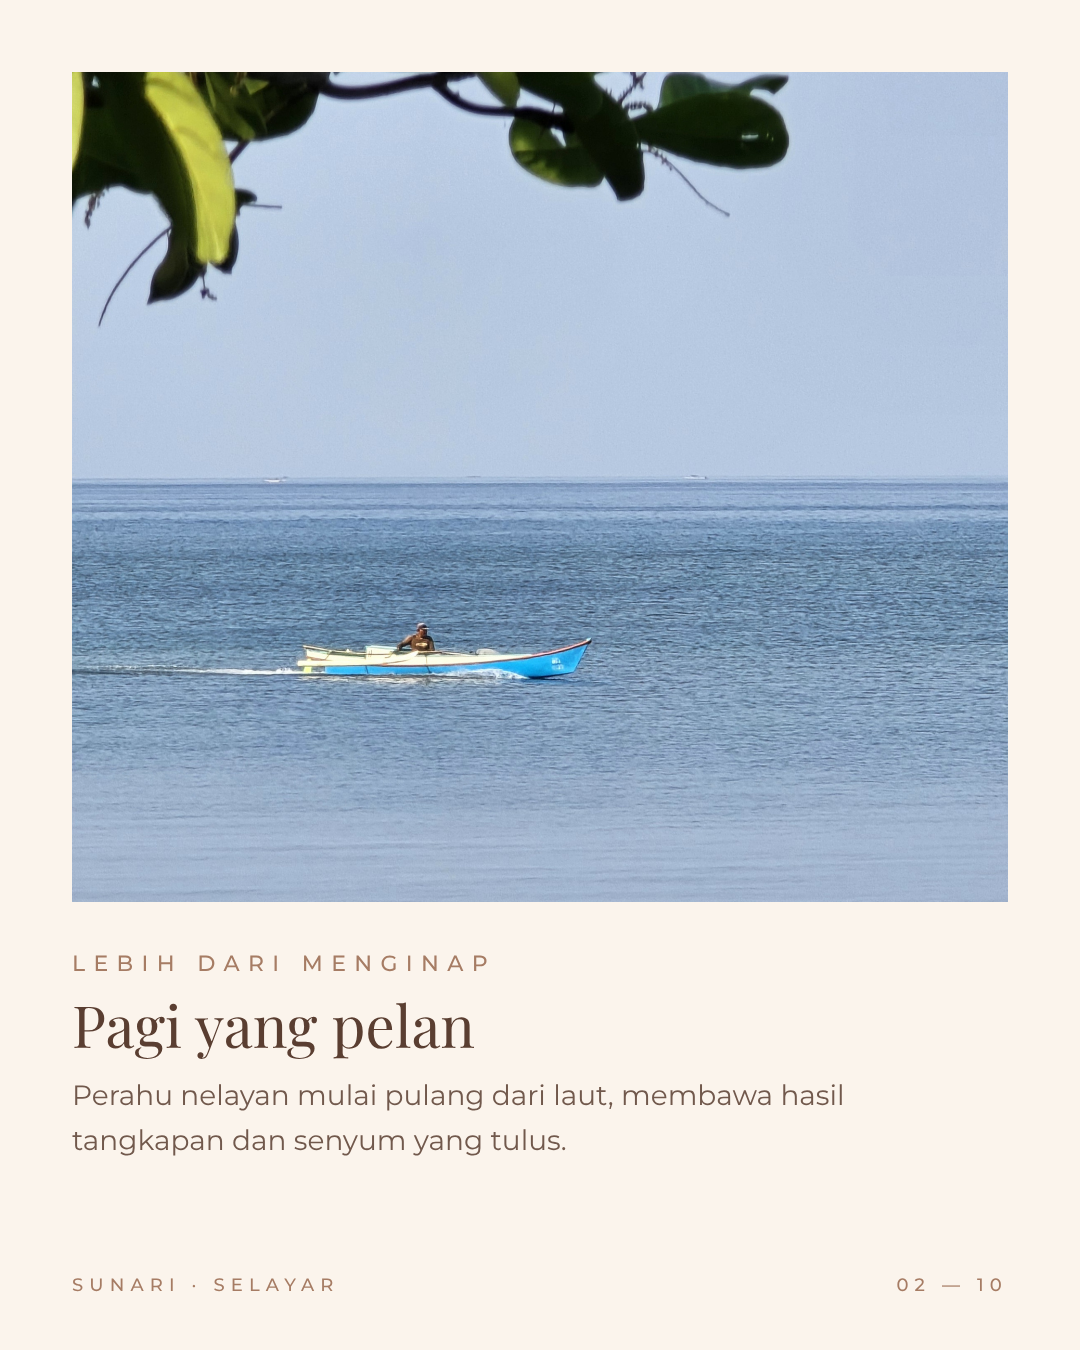
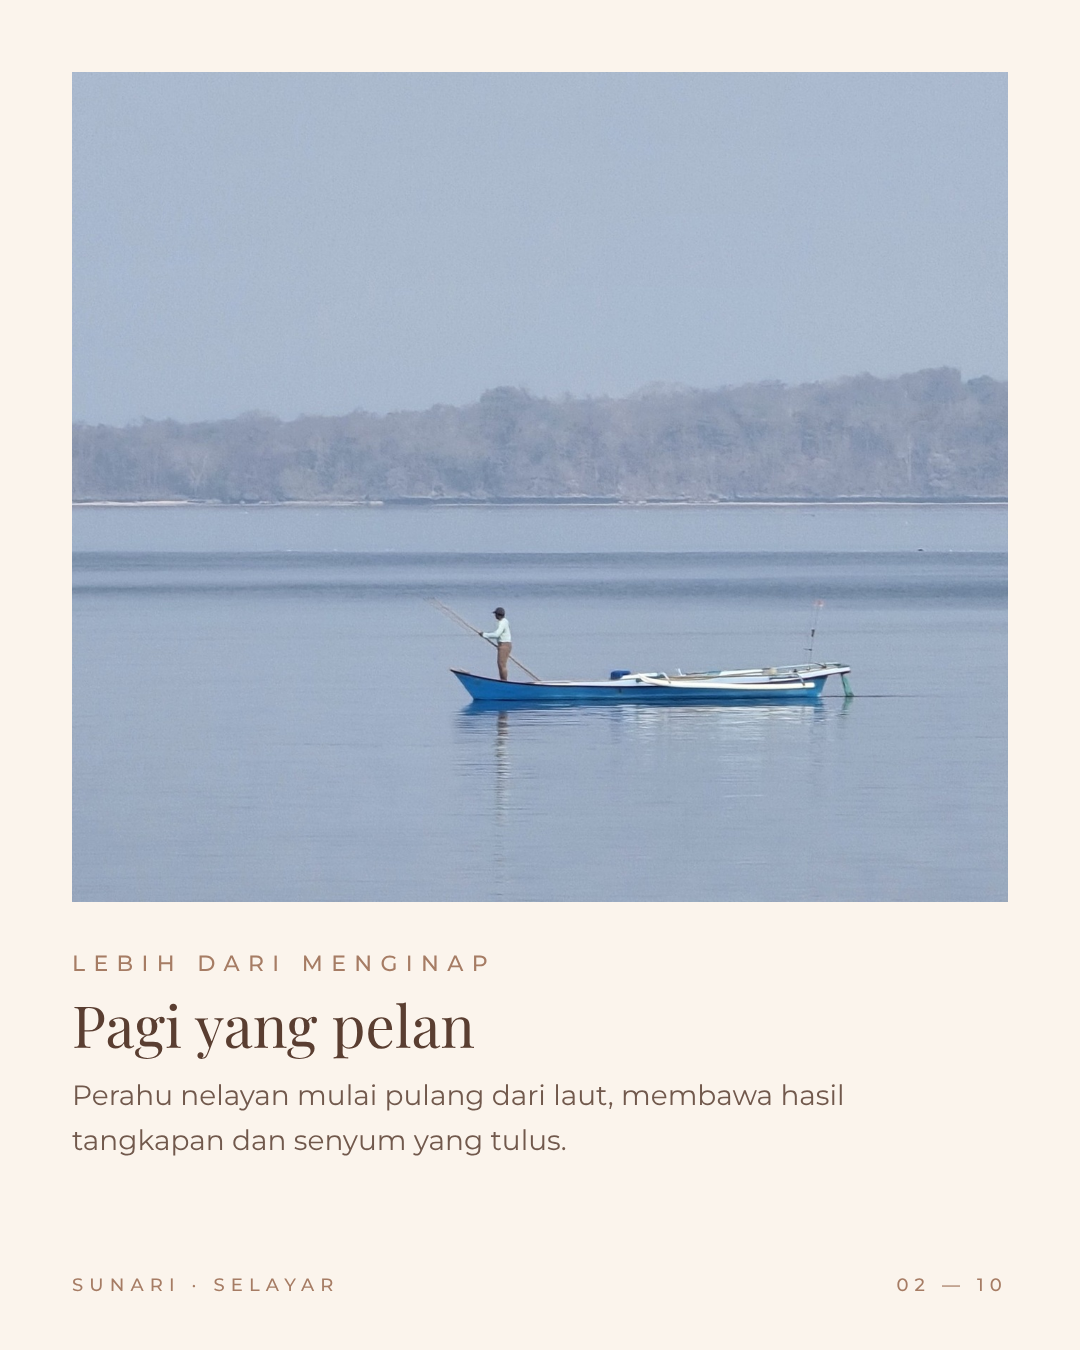
Lebih dari Menginap: slide 2 pakai foto nelayan pagi
Claude-Session: https://claude.ai/code/session_01KeLc5cK8xRmfcoMz1j2mcH

Changed region(s): [[0.0611, 0.0311, 0.9472, 0.5911], [0.4583, 0.6222, 0.4889, 0.6533]]

diff --git a/social/kit.html b/social/kit.html
@@ -567,7 +567,7 @@ body{background:#ddd6cc;font-family:Montserrat,sans-serif;padding:40px;display:f
   <div class="foot"><span class="caps">SunaRi · Selayar</span><span class="caps">06 — 06</span></div>
 </div>
 <div class="tpl" id="p01-2">
-  <img class="ph" src="../assets/photos/pantai/02-perahu-nelayan-biru.jpg" style="object-position:50% 55%" alt="">
+  <img class="ph" src="../assets/photos/pantai/01-nelayan-pagi.jpg" style="object-position:50% 58%" alt="">
   <div class="txt"><div class="caps">Lebih dari Menginap</div><h2>Pagi yang pelan</h2><p>Perahu nelayan mulai pulang dari laut, membawa hasil tangkapan dan senyum yang tulus.</p></div>
   <div class="foot"><span class="caps">SunaRi · Selayar</span><span class="caps">02 — 10</span></div>
 </div>

diff --git a/social/build_kit.py b/social/build_kit.py
@@ -371,7 +371,7 @@ parts.append(f'''<div class="tpl facts" id="faq-{NF}">
 # ---- 12 carousels following the feed preview (covers reuse feed tiles; slides 2..n here)
 FEED12 = [
  ("p01", "Lebih dari Menginap", "camp-1", [
-   ("pantai/02-perahu-nelayan-biru.jpg","50% 55%","Pagi yang pelan","Perahu nelayan mulai pulang dari laut, membawa hasil tangkapan dan senyum yang tulus."),
+   ("pantai/01-nelayan-pagi.jpg","50% 58%","Pagi yang pelan","Perahu nelayan mulai pulang dari laut, membawa hasil tangkapan dan senyum yang tulus."),
    ("taman/05-meja-taman-view-laut-gazebo.jpg","50% 55%","Taman untuk jeda","Saya datang untuk pantainya, tapi taman Sunari diam-diam mencuri hati saya lebih dulu."),
    ("pantai/04-kursi-santai-bawah-pohon.jpg","50% 55%","Siang di bawah ketapang","Di bawah pohon yang teduh, waktu terasa berjalan lebih lambat dan lebih bersahabat."),
    ("aktivitas/01-kayak-sore.jpg","50% 55%","Mendayung saat sore","Bayangan pohon kelapa semakin panjang, tanda pertunjukan sore akan segera dimulai."),
